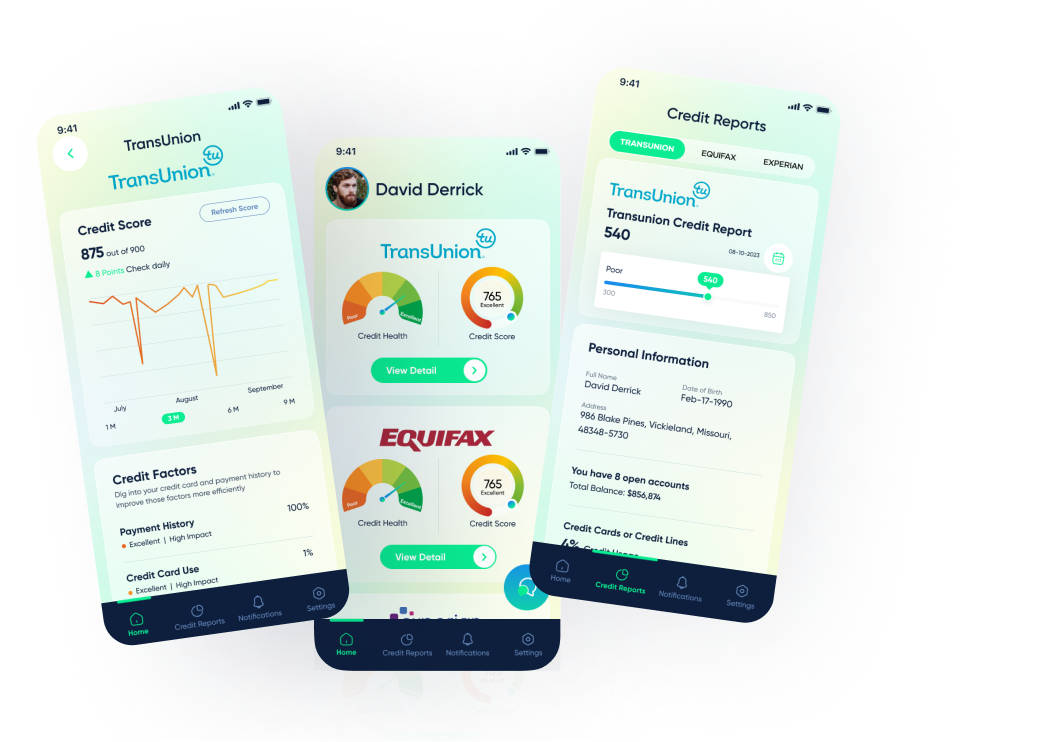
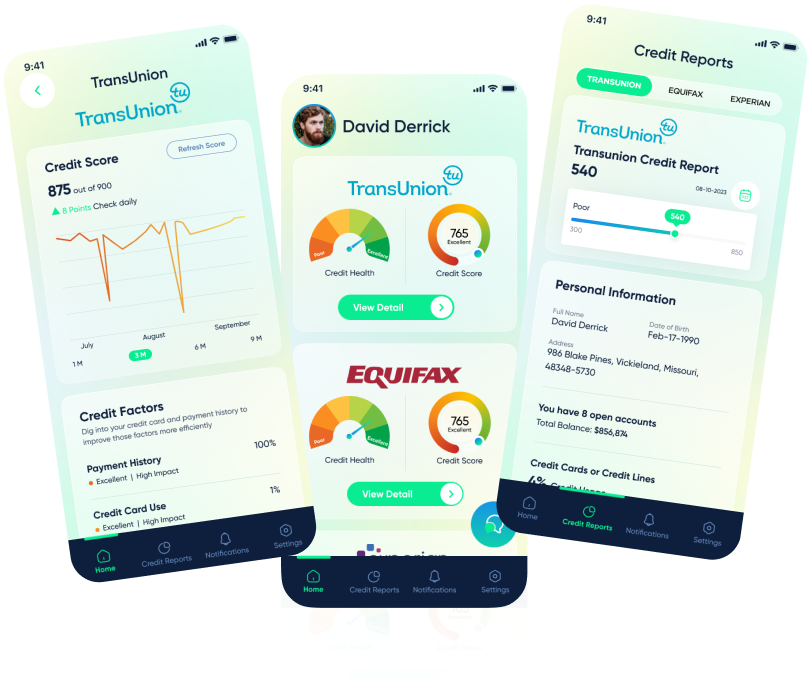
style(hero section): added

Changed region(s): [[0.0, 0.0, 1.0, 0.9278], [0.2463, 0.4948, 0.2771, 0.5258]]

diff --git a/src/components/core/Header.js b/src/components/core/Header.js
@@ -6,35 +6,35 @@ function Header() {
   return (
     <div>
       <nav class="border-b-[6px] border-[#09EC92] bg-white dark:bg-gray-800 shado w py-7 ">
-        <div class="px-8 mx-auto max-w-[1170px]">
+        <div class="mx-auto max-w-[1170px]">
           <div class="flex items-center justify-between h-16">
             <div class=" flex items-center">
-              <a class="flex-shrink-0" href="/">
-                <img class="w-[130px]" src={logo2} alt="Workflow" />
+              <a class="flex-shrink-0 pr-10" href="/">
+                <img class="w-[130px]" src={logo2} alt="logo" />
               </a>
               <div class="hidden md:block">
-                <div class="flex items-baseline ml-10 space-x-3">
-                  <a class="text-[16px] text-[#09EC92] font-bold py-2" href="/#">
+                <div class="flex items-baseline ml-10 space-x-5">
+                  <a class="text-[18px] text-[#09EC92] font-bold py-2" href="/#">
                     Home
                   </a>
-                  <a class="text-[16px] hover:text-[#09EC92] font-normal px-3 py-2" href="/#">
+                  <a class="text-[18px] hover:text-[#09EC92] font-normal px-3 py-2" href="/#">
                     About Us
                   </a>
-                  <a class="text-[16px] hover:text-[#09EC92] font-normal px-3 py-2" href="/#">
+                  <a class="text-[18px] hover:text-[#09EC92] font-normal px-3 py-2" href="/#">
                     Features
                   </a>
-                  <a class="text-[16px] hover:text-[#09EC92] font-normal px-3 py-2" href="/#">
+                  <a class="text-[18px] hover:text-[#09EC92] font-normal px-3 py-2" href="/#">
                     Contact Us
                   </a>
                 </div>
               </div>
             </div>
             <div class="block">
-              <div class="flex items-center ml-4 md:ml-6">
-                <button type="button" class="w-full text-[16px] font-medium whitespace-nowrap rounded-md px-4 py-2 ">
+              <div class="flex items-center gap-x-3 ml-4 md:ml-6">
+                <button type="button" class="w-full text-[16px] font-bold whitespace-nowrap rounded-md px-4 py-2 ">
                   Sign in
                 </button>
-                <button type="button" class="w-full text-[#fff] text-[16px] font-medium whitespace-nowrap rounded-full bg-[#09EC92] px-6 py-3  ">
+                <button type="button" class="text-[#fff] text-[16px] font-medium whitespace-nowrap rounded-full bg-[#09EC92] px-6 py-3  ">
                   Sign up free →
                 </button>
               </div>

diff --git a/src/components/home/Hero.js b/src/components/home/Hero.js
@@ -1,0 +1,40 @@
+import React from 'react'
+import threeAppScreens from "../../assets/images/bg/three-app-screens.png"
+import { FiChevronRight } from 'react-icons/fi';
+
+function Hero() {
+    return (
+        <section className='w-full       relative
+        '>
+            <div className='absolute z-[-1] w-full h-[572px] rounded-bl-[300px] bg-gradient-to-r from-[#1988F1] via-purple-5 00 to-[#09EC92]'>
+            </div>
+            <div class="max-w-[1170px] mx-auto">
+                <div class="flex justify-between items-start h-[720px] pt-[130px]">
+                    <div>
+
+
+                        <h1 class="max-w-[540px] text-[52px] text-[#fff] font-bold leading-[70px]">
+                            Helping you protect, and understand Credit Health
+                        </h1>
+                        <p className='max-w-[520px] text-[20px] text-[#fff] leading-[30px] pt-4 pb-6'>
+                            Miro is your team's visual platform to connect, collaborate, and create — together.
+                        </p>
+                        <button type="button" class="flex justify-between items-center w-[311px] text-[#fff] text-[25px] font-bold whitespace-nowrap rounded-full bg-[#09EC92] pl-8 pr-1 py-1  ">
+                            Sign up free
+                            <div className='flex justify-center items-center w-[60px] h-[60px] rounded-full bg-[#fff]'>
+                                <span className='text-[#09EC92] text-[35px] pl-[5px]'>
+                                    <FiChevronRight />
+                                </span>
+                            </div>
+                        </button>
+                    </div>
+                    <div className='mr-[-200px]'>
+                        <img class=" scale-[1] mt-[-60px]" src={threeAppScreens} alt="logo" />
+                    </div>
+                </div>
+            </div>
+        </section>
+    )
+}
+
+export default Hero

diff --git a/src/App.js b/src/App.js
@@ -1,10 +1,12 @@
 
 import Header from './components/core/Header.js';
+import Hero from './components/home/Hero.js';
 
 function App() {
   return (
     <main className="">
       <Header />
+      <Hero />
     </main>
   );
 }
